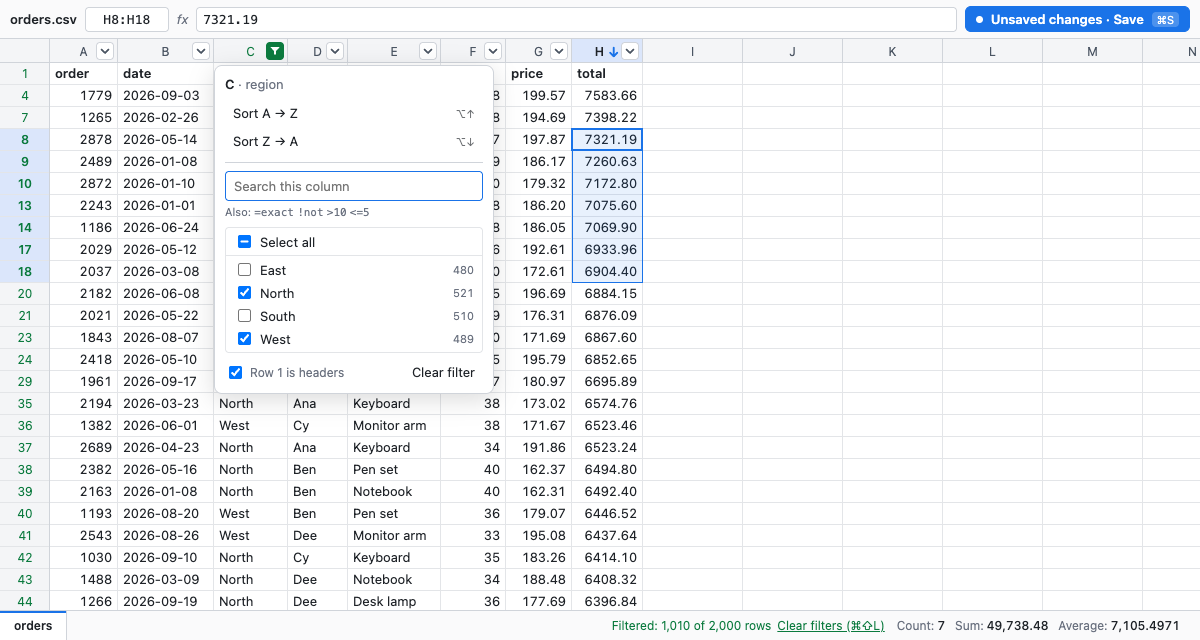
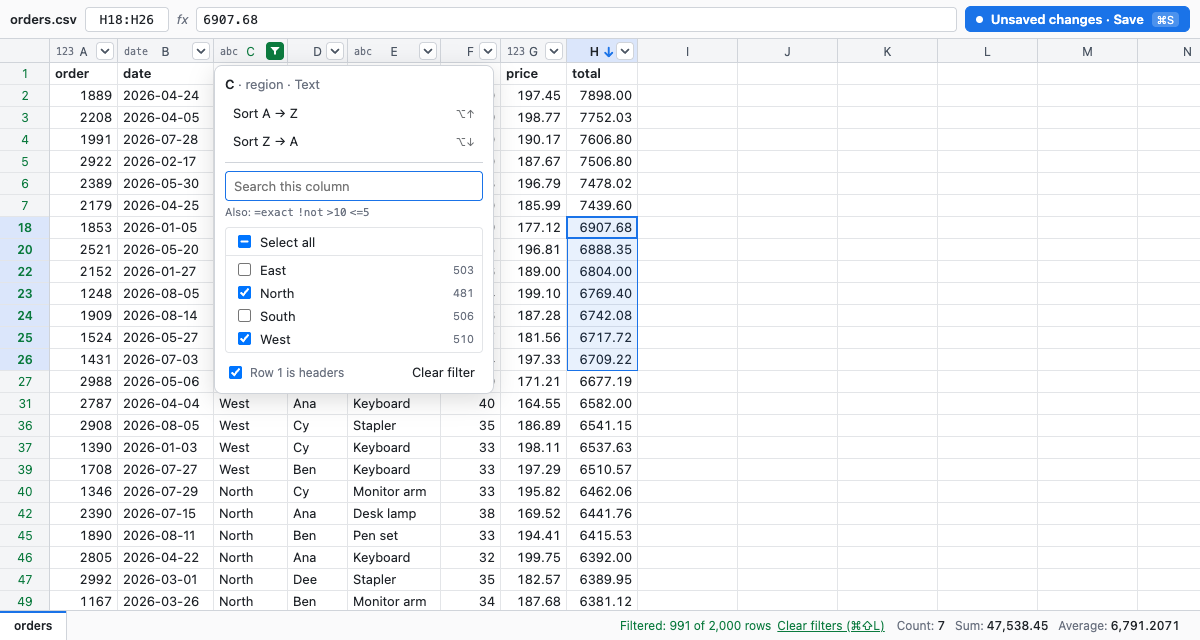
Column headers show each column's data type
A small muted tag at the left of each header (abc, 123, $, %, date, y/n,
mix), worked out from the values. Hover or the sort & filter menu shows the
type and how many values fit; narrow columns keep only those.

Claude-Session: https://claude.ai/code/session_01QmqptpVTwoM3dFvYcUwQdz

diff --git a/web/app.js b/web/app.js
@@ -40,6 +40,7 @@ let colW = [];
 let colX = [0];      // colX[c] = left edge of column c
 let nRows = MIN_ROWS, nCols = MIN_COLS;
 let dataCols = 1;    // columns that hold any data; only these get a sort & filter button
+let colTypes = [];   // colTypes[c] = {label, title} or null, filled in as headers are drawn
 let view = null;     // with a filter: {rows: [data rows shown], tail: data row count when filtered}
 let sel = { ar: 0, ac: 0, fr: 0, fc: 0 }; // anchor (the active cell) and focus, in view rows
 let ed = null;       // {r, c, mode: 'enter' | 'edit', via: 'cell' | 'fx'}
@@ -313,6 +314,7 @@ function colAt(x) {
 
 function growToData() {
   dataCols = maxCols();
+  colTypes = []; // the data changed, so the types might have too
   const r = Math.min(MAX_ROWS, Math.max(nRows, viewRows() + 100));
   const c = Math.min(MAX_COLS, Math.max(nCols, dataCols + 10));
   if (r !== nRows || c !== nCols) { nRows = r; nCols = c; layout(); }
@@ -358,6 +360,20 @@ function render() {
     el.style.cssText = `left:${colX[c]}px;width:${colW[c]}px`;
     el.dataset.c = c;
     el.append(colName(c));
+    // The column's data type: a small muted tag pinned to the left edge, clear
+    // of the centered letter and the menu button. Narrow columns drop the tag
+    // and keep the type on hover and in the sort & filter menu.
+    const type = c < dataCols ? colType(c) : null;
+    if (type) el.title = type.title;
+    // The centered letter (and sort arrow) must clear the tag on the left and
+    // the button on the right.
+    const mid = colName(c).length * 7 + (ss.sort && ss.sort.c === c ? 18 : 0);
+    if (type && colW[c] >= Math.max(2 * (10 + type.label.length * 6) + mid, mid + 44)) {
+      const tag = document.createElement('span');
+      tag.className = 'type';
+      tag.textContent = type.label;
+      el.append(tag);
+    }
     if (ss.sort && ss.sort.c === c) {
       const arrow = document.createElement('span');
       arrow.className = 'sort';
@@ -894,6 +910,49 @@ function isNumericColumn(c) {
   return total > 0 && nums / total >= 0.8;
 }
 
+const TYPES = {
+  text: ['abc', 'Text'], number: ['123', 'Number'], currency: ['$', 'Currency'], percent: ['%', 'Percent'],
+  date: ['date', 'Date'], bool: ['y/n', 'Yes/No'],
+};
+const BOOL_RE = /^(true|false|yes|no)$/i;
+
+function valueType(v) {
+  const t = v.trim();
+  if (BOOL_RE.test(t)) return 'bool';
+  if (NUM_RE.test(t)) return t.endsWith('%') ? 'percent' : /[$€£¥]/.test(t) ? 'currency' : 'number';
+  if (DATE_RE.test(t) && !Number.isNaN(Date.parse(t))) return 'date';
+  return 'text';
+}
+
+// colType labels a column by the kind of values in it, looking at the same
+// rows as isNumericColumn. A type needs 80% of the non-blank values; numbers,
+// currency and percents together count as numbers; anything else is mixed.
+function colType(c) {
+  if (colTypes[c] !== undefined) return colTypes[c];
+  const counts = {};
+  let total = 0, sym = '$';
+  for (let r = ss.header ? 1 : 0; r < Math.min(dataRows(sheet), 2000); r++) {
+    const v = val(sheet, r, c);
+    if (!v) continue;
+    const t = valueType(v);
+    if (t === 'currency' && !counts.currency) sym = v.match(/[$€£¥]/)[0];
+    counts[t] = (counts[t] || 0) + 1;
+    total++;
+  }
+  if (!total) return (colTypes[c] = null);
+  const [top, n] = Object.entries(counts).sort((a, b) => b[1] - a[1])[0];
+  const nums = (counts.number || 0) + (counts.currency || 0) + (counts.percent || 0);
+  const of = (k, m) => `${TYPES[k][1]}: ${m.toLocaleString()} of ${total.toLocaleString()} values`;
+  let type;
+  if (n / total >= 0.8) type = { label: top === 'currency' ? sym : TYPES[top][0], title: of(top, n) };
+  else if (nums / total >= 0.8) type = { label: TYPES.number[0], title: of('number', nums) };
+  else {
+    const mix = Object.entries(counts).sort((a, b) => b[1] - a[1]).map(([k, m]) => `${m.toLocaleString()} ${TYPES[k][1].toLowerCase()}`);
+    type = { label: 'mix', title: 'Mixed: ' + mix.join(', ') };
+  }
+  return (colTypes[c] = type);
+}
+
 function sortLabels(c) {
   return isNumericColumn(c) ? ['smallest to largest', 'largest to smallest'] : ['A → Z', 'Z → A'];
 }
@@ -1008,6 +1067,8 @@ function openColMenu(c) {
   };
   const title = el('div', 'cm-title', colName(c));
   if (ss.header && val(sheet, 0, c)) title.append(el('span', '', ' · ' + val(sheet, 0, c)));
+  const type = colType(c);
+  if (type) title.append(el('span', 'cm-type', ' · ' + type.title.split(':')[0]));
 
   const sortBox = el('div', 'cm-sort');
   const sortBtn = (label, isDesc) => {

diff --git a/web/style.css b/web/style.css
@@ -124,6 +124,9 @@ body.dirty #savebtn:hover { filter: brightness(1.08); }
 .ch { height: 24px; border-right: 1px solid var(--head-line); }
 .rh { width: var(--rowhead-w, 48px); border-bottom: 1px solid var(--line); }
 .ch.on, .rh.on { background: var(--head-sel); color: var(--fg); font-weight: 600; }
+/* The column's data type, pinned to the left edge so it clears the centered
+   letter and the sort & filter button. */
+.ch .type { position: absolute; left: 6px; top: 50%; transform: translateY(-50%); font: 10px var(--mono); font-weight: 400; color: var(--muted); pointer-events: none; }
 .ch .sort { margin-left: 4px; font-size: 14px; font-weight: 700; color: var(--accent); }
 /* The sort & filter button on every column header. */
 .ch .dd {

diff --git a/README.md b/README.md
@@ -142,6 +142,7 @@ Filters on several columns combine. Filtered columns and their row numbers turn 
 - Drag the edge of a column header to resize the column. Double-click the edge to fit it to its contents.
 - Press ⌘G, or click the box at the top left, to jump somewhere. Type a cell or range (`B12`, `A1:D20`), a row (`12`), a column (`AA`), or part of a column's header (`email`), then press Enter. A column or header keeps you on the same row. Letters like `AB` go to that column unless a header is named exactly that; other text goes to the first column, from the left, whose header contains it.
 - Select some cells to see their count, sum and average at the bottom right.
+- grid works out what kind of data each column holds — text, number, currency, percent, date, yes/no, or mixed. Hover a column header, or open its sort & filter menu, to see the type and how many values fit. A type needs 80% of a column's non-blank cells; numbers, currency and percents together count as numbers. It's only a label and doesn't change your file.
 - Big files stay fast: only the cells on screen are drawn, and tens of thousands of rows scroll smoothly.
 - Light and dark mode follow your system setting.
 
